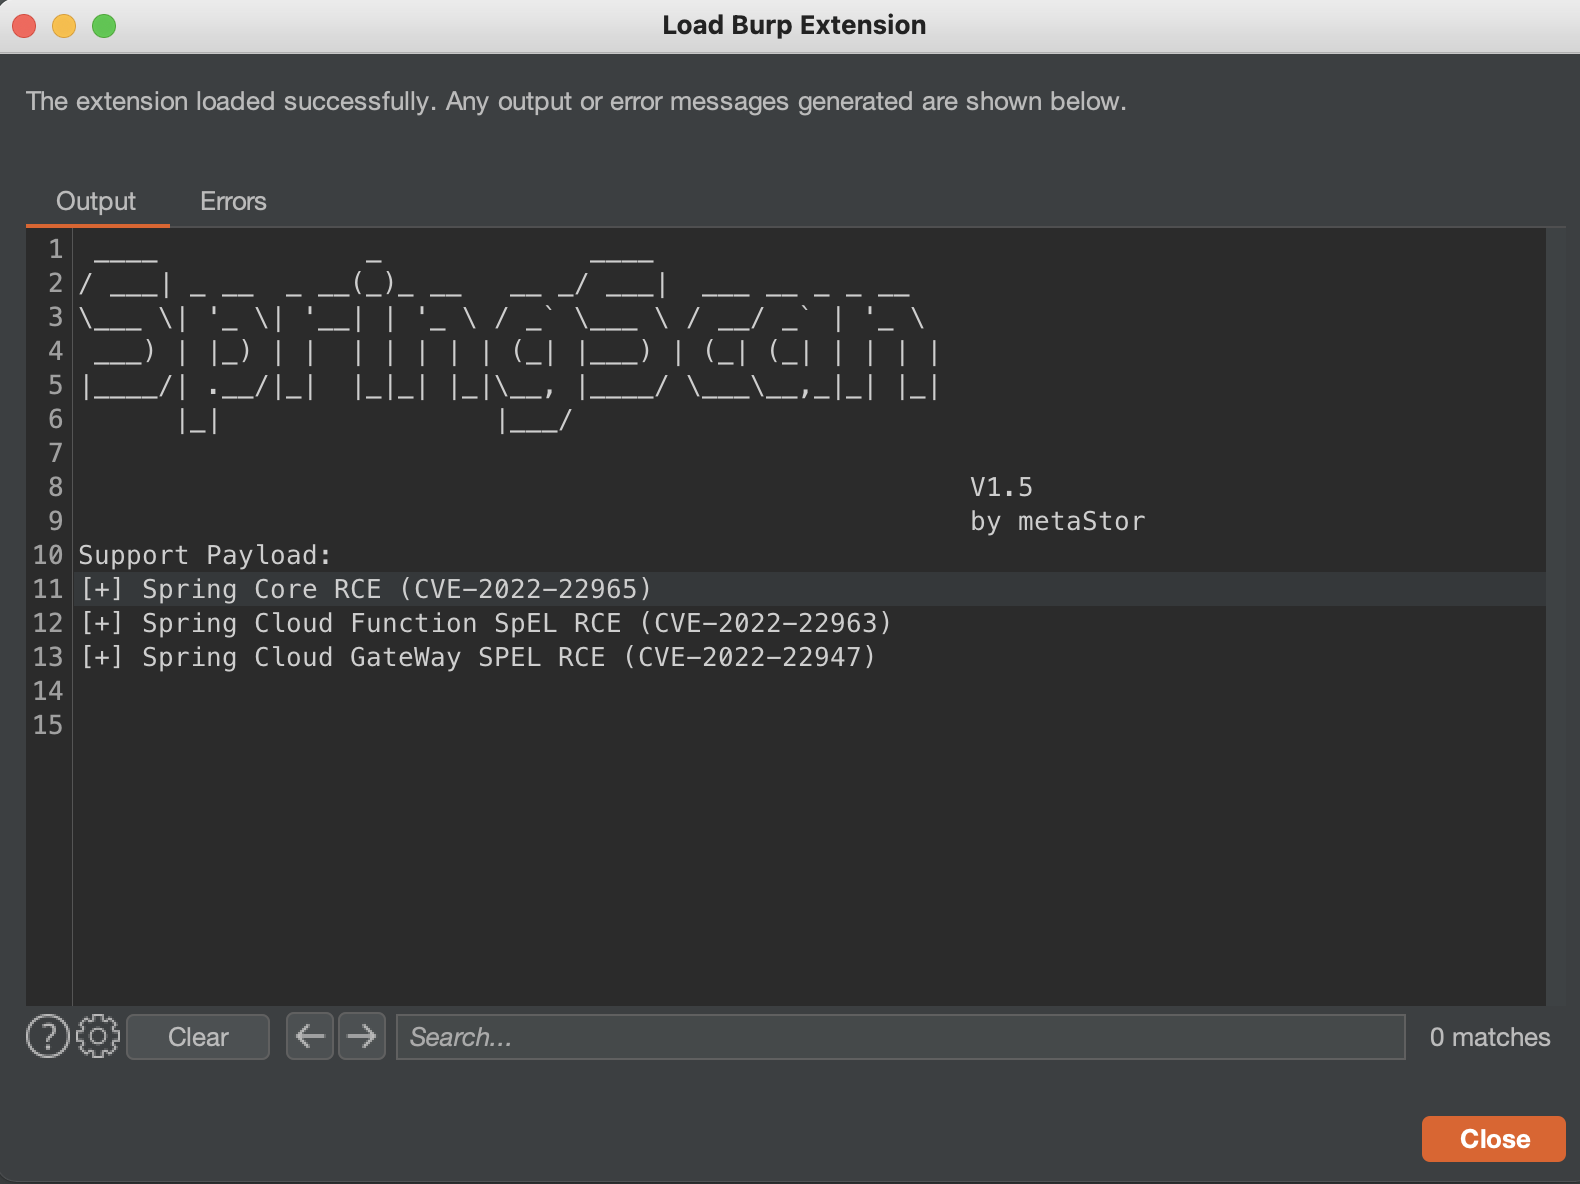
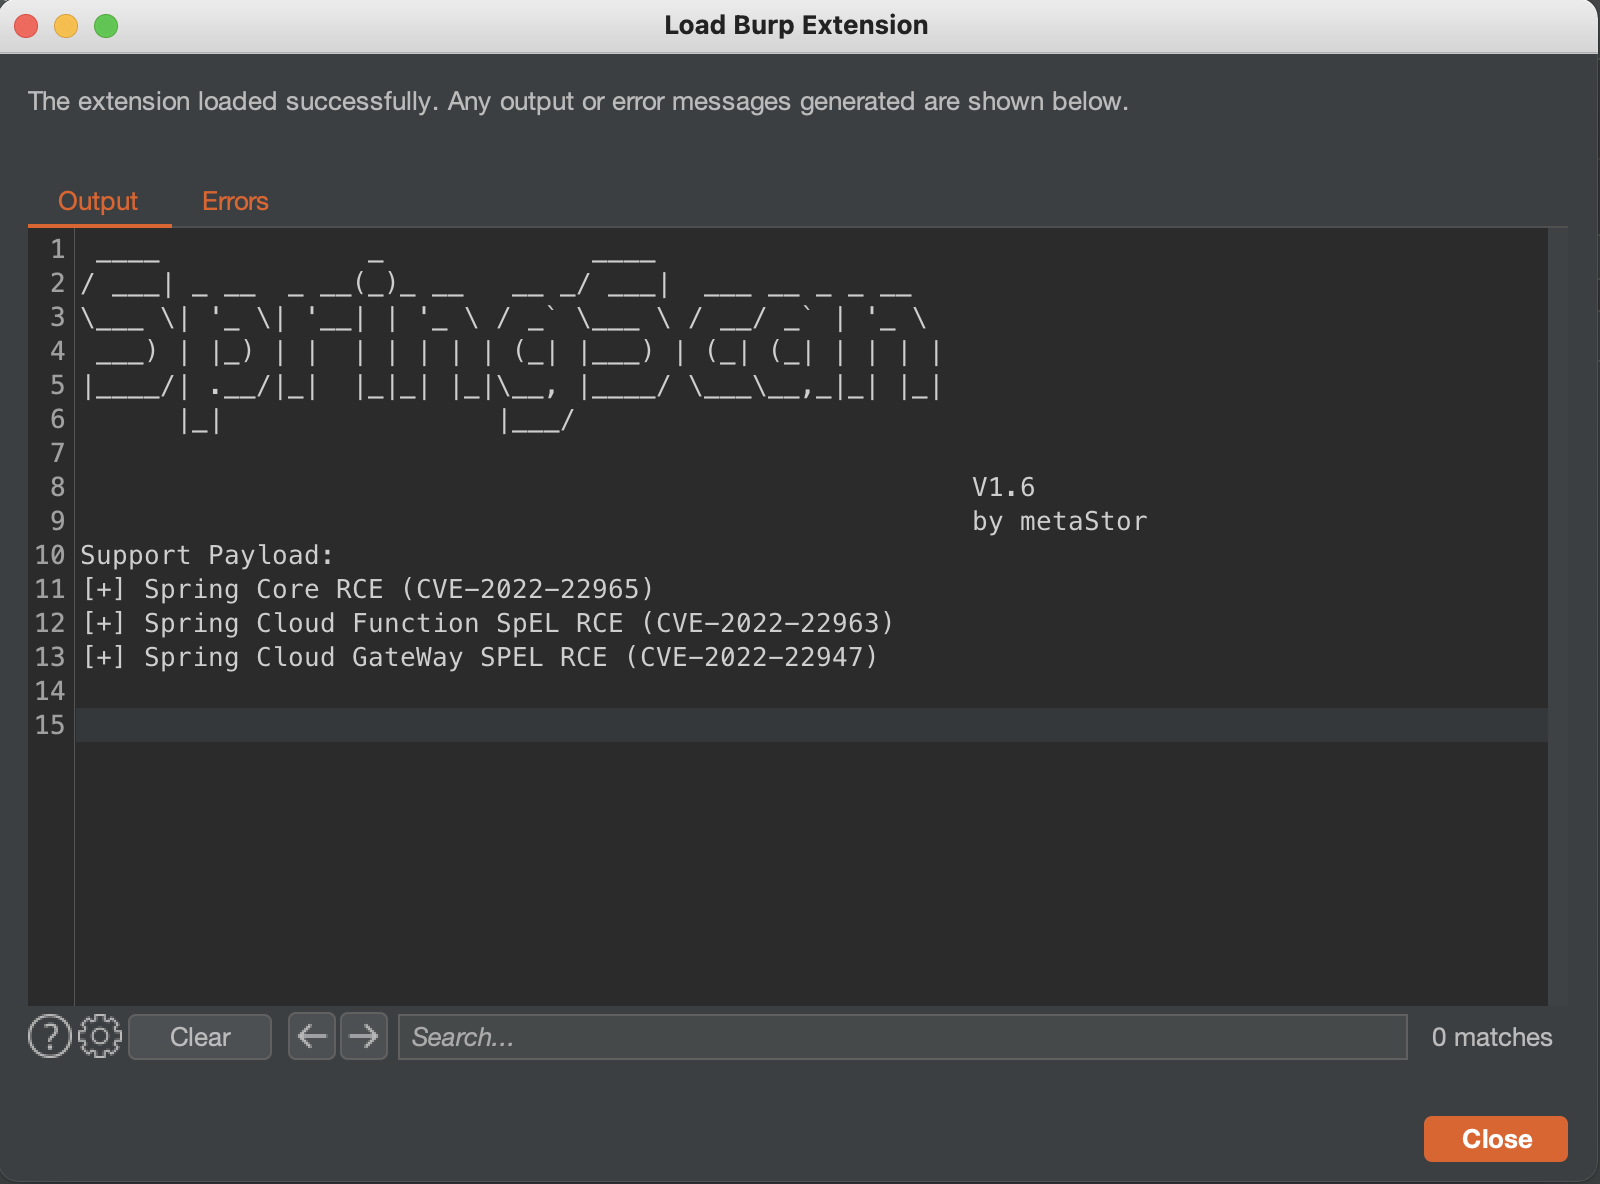
报错检测措辞改为回显检测;增加springboot2.x版本的指纹检测;优化插件检测逻辑

diff --git a/src/main/java/burp/scan/Scanner.java b/src/main/java/burp/scan/Scanner.java
@@ -85,7 +85,7 @@ public class Scanner implements IScannerCheck {
                     iHttpRequestResponse
             );
             /**
-             * 报错扫描
+             * 回显扫描
              */
             if (isErrorCheck) {
                 // Spring Core RCE (CVE-2022-22965)
@@ -107,9 +107,26 @@ public class Scanner implements IScannerCheck {
                                 errorIssue.getHttpMessages()[0]
                         );
                     }
-                    // 已扫描uri的集合
-                    this.allScan.add(url_md5);
                 }
+                // Spring Cloud GateWay SPEL RCE (CVE-2022-22947)
+                IScanIssue gatewayIssue = this.CloudGatewayScan(iHttpRequestResponse);
+                if (gatewayIssue != null) {
+                    isVul = true;
+                    this.burpExtender.stdout.println(String.format("[+] RCEChecker found %s Vul!", url));
+                    issues.add(gatewayIssue);
+                    // 扫描结果输出到UI
+                    this.burpExtender.tags.getScannerUi().save(
+                            id,
+                            "RCECheck",
+                            this.burpExtender.helpers.analyzeRequest(gatewayIssue.getHttpMessages()[0]).getMethod(),
+                            String.valueOf(this.burpExtender.helpers.analyzeRequest(gatewayIssue.getHttpMessages()[0]).getUrl()),
+                            String.valueOf(this.helpers.analyzeResponse(gatewayIssue.getHttpMessages()[0].getResponse()).getStatusCode()),
+                            "[+] Spring Cloud GateWay SpEL RCE",
+                            gatewayIssue.getHttpMessages()[0]
+                    );
+                }
+                // 已扫描uri的集合
+                this.allScan.add(url_md5);
             }
             /**
              * 回连扫描
@@ -158,24 +175,6 @@ public class Scanner implements IScannerCheck {
                 }
                 this.allScan.add(url_md5);
             }
-            // Spring Cloud GateWay SPEL RCE (CVE-2022-22947)
-            IScanIssue gatewayIssue = this.CloudGatewayScan(iHttpRequestResponse);
-            if (gatewayIssue != null) {
-                isVul = true;
-                this.burpExtender.stdout.println(String.format("[+] RCEChecker found %s Vul!", url));
-                issues.add(gatewayIssue);
-                // 扫描结果输出到UI
-                this.burpExtender.tags.getScannerUi().save(
-                        id,
-                        "RCECheck",
-                        this.burpExtender.helpers.analyzeRequest(gatewayIssue.getHttpMessages()[0]).getMethod(),
-                        String.valueOf(this.burpExtender.helpers.analyzeRequest(gatewayIssue.getHttpMessages()[0]).getUrl()),
-                        String.valueOf(this.helpers.analyzeResponse(gatewayIssue.getHttpMessages()[0].getResponse()).getStatusCode()),
-                        "[+] Spring Cloud GateWay SpEL RCE",
-                        gatewayIssue.getHttpMessages()[0]
-                );
-            }
-            this.allScan.add(url_md5);
             // 不存在漏洞, 更新UI
             if (!isVul) {
                 this.burpExtender.tags.getScannerUi().save(
@@ -224,7 +223,7 @@ public class Scanner implements IScannerCheck {
     }
 
     /**
-     * 使用POC1/POC2进行报错检测漏洞
+     * 使用POC1/POC2进行回显检测漏洞
      * @param httpRequestResponse
      * @param reverseMethod 是否变换请求
      * @return SpringCoreIssue
@@ -369,7 +368,7 @@ public class Scanner implements IScannerCheck {
      */
     private IScanIssue CloudFunctionSpelRCE(IHttpRequestResponse httpRequestResponse) {
         // 加入是否是spring指纹的判断
-        if (!this.isSpringFinger(httpRequestResponse)) return null;
+        if (!this.isSpringFinger(httpRequestResponse, false) && !this.isSpringFinger(httpRequestResponse, true)) return null;
         boolean is500 = false;  // 是否打到500响应
         byte[] newHeaderRequest = this.randomHeader(httpRequestResponse);  // 随机Agent-User头
         IHttpService httpService = httpRequestResponse.getHttpService();
@@ -483,7 +482,7 @@ public class Scanner implements IScannerCheck {
      */
     private IScanIssue CloudGatewayScan(IHttpRequestResponse httpRequestResponse) {
         // 这里判断是否有spring 404的特征: Whitelabel Error Page
-        if (!this.isSpringFinger(httpRequestResponse)) return null;
+        if (!this.isSpringFinger(httpRequestResponse, false) && !this.isSpringFinger(httpRequestResponse, true)) return null;
         URL url = this.helpers.analyzeRequest(httpRequestResponse).getUrl();
         String uri = Utils.getUri(url.toString());
         String random_uri = Utils.randomStr(5);
@@ -538,14 +537,20 @@ public class Scanner implements IScannerCheck {
             headers.add("Content-Type: application/json");
             headers.add("Connection: close");
             // 加入POST的POC
-            IParameter param = this.helpers.buildParameter(poc66 + ",{\"", "\"}", IParameter.PARAM_BODY);
-            refreshRequest = this.helpers.addParameter(refreshRequest, param);
+//            IParameter param = this.helpers.buildParameter(poc66 + ",{\"", "\"}", IParameter.PARAM_BODY);
+//            refreshRequest = this.helpers.addParameter(refreshRequest, param);
             // 截取新请求, buildHttpRequest()之后会包含原本的GET请求内容和自定义构造的headers+POST内容, 所以要截取
             IRequestInfo requestInfo = this.helpers.analyzeRequest(service, refreshRequest);
             refreshRequest = new String(refreshRequest).substring(requestInfo.getBodyOffset()).getBytes();
             // 组装请求
             byte[] newRequest = this.helpers.buildHttpMessage(headers, refreshRequest);
-            IHttpRequestResponse requestResponse = this.burpExtender.callbacks.makeHttpRequest(service, newRequest);
+            // 加入请求body
+            byte[] poc66Byte = this.helpers.stringToBytes(poc66);
+            byte[] newRequest2 = new byte[newRequest.length + poc66Byte.length];
+            System.arraycopy(newRequest, 0, newRequest2, 0, newRequest.length);
+            System.arraycopy(poc66Byte, 0, newRequest2, newRequest.length, poc66Byte.length);
+            // 发送请求
+            IHttpRequestResponse requestResponse = this.burpExtender.callbacks.makeHttpRequest(service, newRequest2);
             IResponseInfo responseInfo1 = this.helpers.analyzeResponse(requestResponse.getResponse());
             IRequestInfo requestInfo1 = this.helpers.analyzeRequest(requestResponse.getRequest());
             if (responseInfo1.getStatusCode() == 201) return true;
@@ -633,16 +638,24 @@ public class Scanner implements IScannerCheck {
     }
 
     /**
-     * 随机访问一个uri路径, 判断响应内容是否有spring特征 (Whitelabel Error Page)
+     * SpringBoot 1.x
+     * 随机访问一个uri路z径, 判断响应内容是否有spring特征 (Whitelabel Error Page)
+     *
+     * SpringBoot 2.x
+     * 访问/actuator/xxx, 判断响应内容是否有spring特征 (Whitelabel Error Page)
+     *
      * @param httpRequestResponse
      * @return
      */
-    private boolean isSpringFinger(IHttpRequestResponse httpRequestResponse) {
+    private boolean isSpringFinger(IHttpRequestResponse httpRequestResponse, boolean isVersion2x) {
         try {
             IRequestInfo requestInfo = this.helpers.analyzeRequest(httpRequestResponse);
             IHttpService service = httpRequestResponse.getHttpService();
             String url = requestInfo.getUrl().toString();
-            byte[] newRequest = this.helpers.buildHttpRequest(new URL(service.getProtocol(), service.getHost(), service.getPort(), Utils.getUri(url) + Utils.randomStr(5)));
+            if (isVersion2x) {  // springboot 2.x
+                url = Utils.getUri(url) + "actuator/" + Utils.randomStr(5);
+            }
+            byte[] newRequest = this.helpers.buildHttpRequest(new URL(service.getProtocol(), service.getHost(), service.getPort(), url));
             requestInfo = this.helpers.analyzeRequest(service, newRequest);  // 重新打包好新的uri请求
             // header中Accpet: text/html,application/xhtml+xml,application/xml;q=0.9,image/avif,image/webp,*/*;q=0.8
             List<String> headers = requestInfo.getHeaders();

diff --git a/src/main/java/burp/ui/tabs/SettingUi.java b/src/main/java/burp/ui/tabs/SettingUi.java
@@ -56,7 +56,7 @@ public class SettingUi {
         this.checkLabel = new JLabel("检测方法:     ");
         this.reverseLabel = new JLabel("回连方法:     ");
         this.enableCheckBox = new JCheckBox("启动", true);
-        this.errorCheckBox = new JCheckBox("报错检测   ", true);
+        this.errorCheckBox = new JCheckBox("回显检测   ", true);
         this.reverseCheckBox = new JCheckBox("回连检测", true);
 
         this.enableLabel.setForeground(new Color(255, 89, 18));

diff --git a/src/main/java/burp/BurpExtender.java b/src/main/java/burp/BurpExtender.java
@@ -14,7 +14,7 @@ import java.io.PrintWriter;
 public class BurpExtender implements IBurpExtender, IExtensionStateListener
 {
     private final String NAME = "SpringScan";
-    private final String VERSION = "1.5";
+    private final String VERSION = "1.6";
 
     public IBurpExtenderCallbacks callbacks;
     public IExtensionHelpers helpers;

diff --git a/src/main/java/burp/payload/pocs/POC1.java b/src/main/java/burp/payload/pocs/POC1.java
@@ -5,7 +5,7 @@ import burp.payload.IPoc;
 /**
  * @author : metaStor
  * @date : Created 2022/4/7
- * @description: 报错检测
+ * @description: 回显检测
  * POC:
  * class.module.classLoader.DefaultAssertionStatus=xxx => status_code: 400
  * class.module.classLoader.DefaultAssertionStatus=false => 页面正常

diff --git a/src/main/java/burp/payload/pocs/POC2.java b/src/main/java/burp/payload/pocs/POC2.java
@@ -5,7 +5,7 @@ import burp.payload.IPoc;
 /**
  * @author : metaStor
  * @date : Created 2022/4/7
- * @description: 报错检测
+ * @description: 回显检测
  * POC:
  * class.module.classLoader.URLs%5bx%5d=x (x为随机数字) => status_code: 400
  * url（正常请求） => 页面正常

diff --git a/README.md b/README.md
@@ -26,17 +26,17 @@
 
 因为这个洞上传shell还需要准确的web路径（默认在webapps\ROOT），写ssh和计划任务也需要root权限。实战中用exp去检测漏洞不太现实，所以思路转变到使用其他方法去检测漏洞的存在性。主要通过下面两种方式检测：
 
-* 报错检测
+* 回显检测
 * 回连检测（BurpCollaboratorClient/Dnglos/Ceye）
 
 详细原理 ➡ [https://www.t00ls.cc/articles-65348.html](https://www.t00ls.cc/articles-65348.html)
 
 检测置信度：
 
-> 回连检测 > 报错检测
+> 回连检测 > 回显检测
 
-报错检测误报率较大(默认关闭)，可能存在漏洞但不能保证JDK版本大于等于**9**，可以及时捕捉到不出网的漏洞；回连检测准确率高，不适用于不出网环境。
-推荐在内网的环境只开启报错检测，在公网环境开报错检测和回连检测。
+回显检测误报率较大，可能存在漏洞但不能保证JDK版本大于等于**9**，可以及时捕捉到不出网的漏洞；回连检测准确率高，不适用于不出网环境。
+推荐在内网的环境只开启回显检测，在公网环境开回显检测和回连检测。
 
 ### CVE-2022-22963 检测方法 
 
@@ -58,14 +58,14 @@
 
 检测方法：
 
-* 首先随机访问一个不存在的路径，根据特征`Whitelabel Error Page`判断是否是Spring框架；是则打POC，分五个请求：`包含恶意SpEL表达式的路由 -> 刷新路由 -> 访问添加的路由查看RCE结果 -> 删除路由 -> 刷新路由`
+* 首先随机访问一个不存在的路径，根据特征`Whitelabel Error Page`判断是否是Spring框架(1.x/2.x)；是则打POC，分五个请求：`包含恶意SpEL表达式的路由 -> 刷新路由 -> 访问添加的路由查看RCE结果 -> 删除路由 -> 刷新路由`
 
 ## 插件情况
 
-|  **报错检测**   | **回连检测**  | **自带检测**  |
-|  :----:  | :----:  | :----:  |
-| Spring Core RCE  | Spring Core RCE | Spring Cloud GateWay SPEL RCE |
-| x  | Spring Cloud Function SpEL RCE | x |
+|    **回显检测**     | **回连检测**  |
+|:---------------:| :----:  |
+| Spring Core RCE | Spring Core RCE |
+|        Spring Cloud GateWay SPEL RCE         | Spring Cloud Function SpEL RCE |
 
 ## 编译
 
